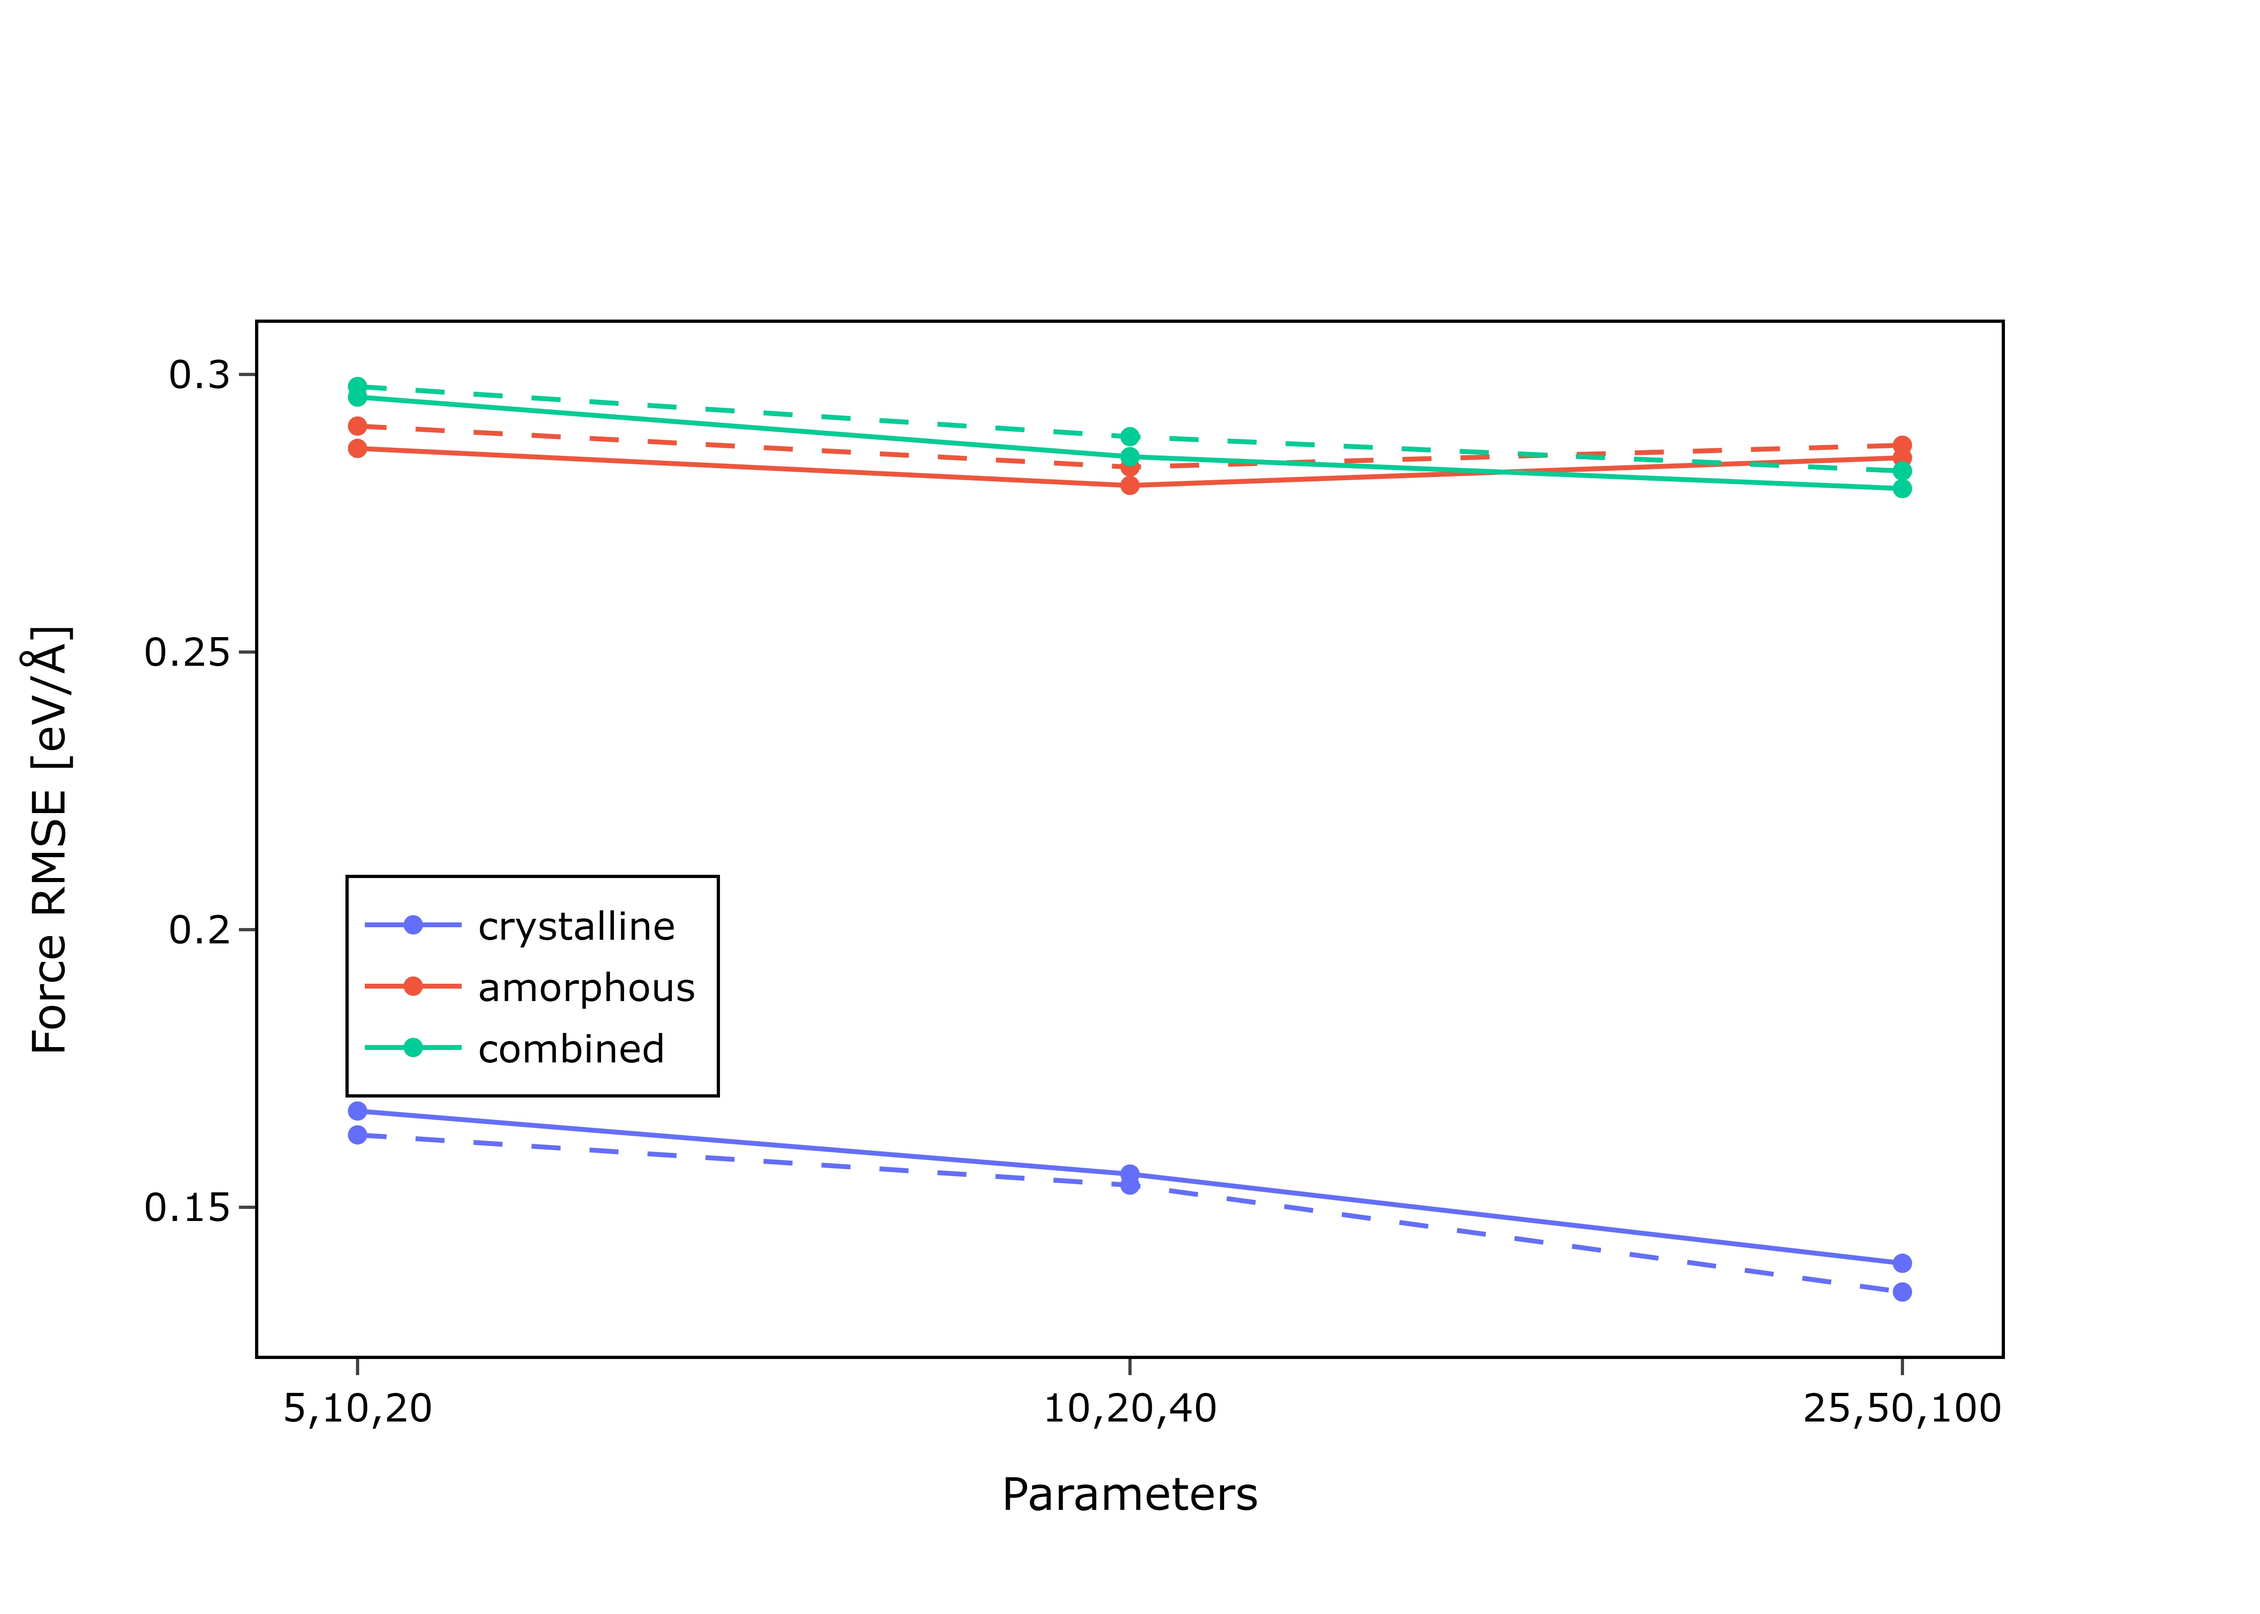
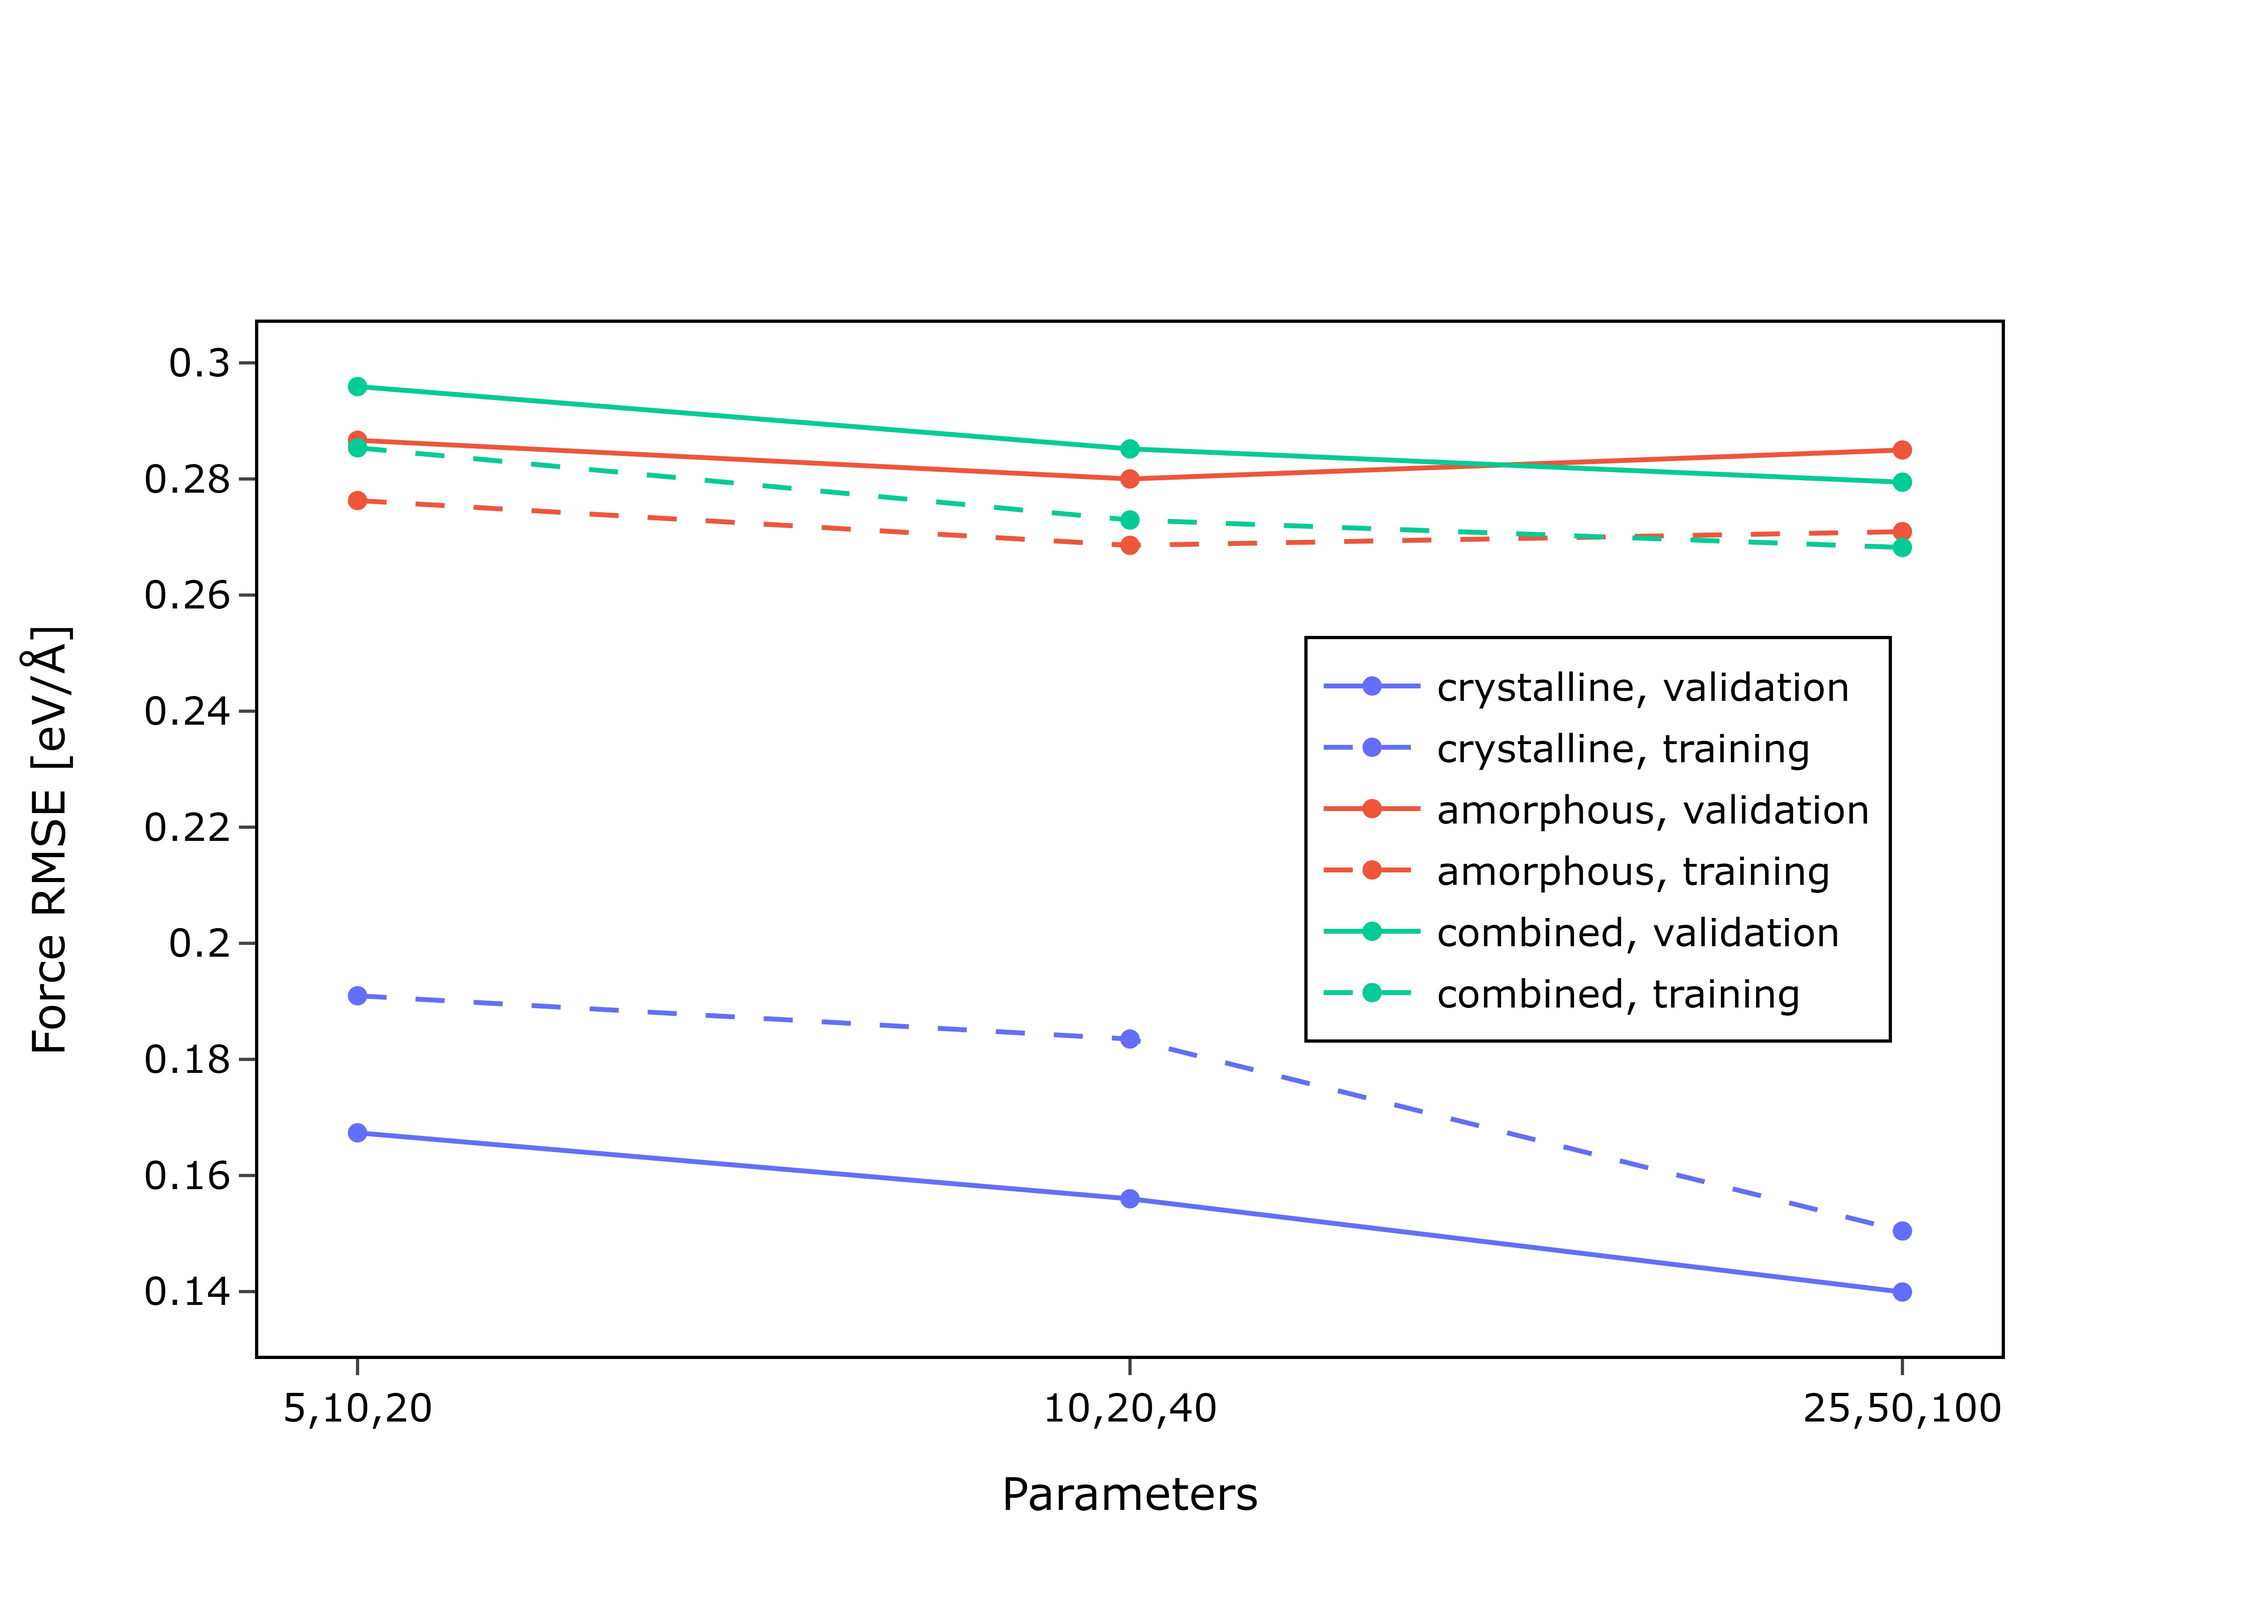
chore: redo plots

diff --git a/ml4md/plot_error_curves.py b/ml4md/plot_error_curves.py
@@ -71,7 +71,7 @@ def main():
                 x=x,
                 y=validation_energy_rmse,
                 line=dict(width=1.5, color=color),
-                name=name
+                name=f"{name}, validation"
             )
         )
 
@@ -80,8 +80,7 @@ def main():
                 x=x,
                 y=training_energy_rmse,
                 line=dict(width=1.5, dash="dash", color=color),
-                name=name,
-                showlegend=False
+                name=f"{name}, training",
             )
         )
 
@@ -90,7 +89,7 @@ def main():
                 x=x,
                 y=validation_force_rmse,
                 line=dict(width=1.5, color=color),
-                name=name
+                name=f"{name}, validation"
             )
         )
 
@@ -99,8 +98,7 @@ def main():
                 x=x,
                 y=training_force_rmse,
                 line=dict(width=1.5, dash="dash", color=color),
-                name=name,
-                showlegend=False
+                name=f"{name}, training"
             )
         )
 
@@ -127,7 +125,7 @@ def main():
             xaxis_title="Parameters",
             legend=dict(
                 x=.05,
-                y=.25,
+                y=.2,
                 traceorder="normal",
                 bordercolor="#000",
                 borderwidth=1
@@ -156,8 +154,8 @@ def main():
             ),
             xaxis_title="Parameters",
             legend=dict(
-                x=.05,
-                y=.25,
+                x=.6,
+                y=.5,
                 traceorder="normal",
                 bordercolor="#000",
                 borderwidth=1
@@ -216,7 +214,7 @@ def main():
                 x=x,
                 y=validation_energy_rmse,
                 line=dict(width=1.5, color=color),
-                name=name
+                name=f"{name}, validation"
             )
         )
 
@@ -225,8 +223,7 @@ def main():
                 x=x,
                 y=training_energy_rmse,
                 line=dict(width=1.5, dash="dash", color=color),
-                name=name,
-                showlegend=False
+                name=f"{name}, training",
             )
         )
 
@@ -235,7 +232,7 @@ def main():
                 x=x,
                 y=validation_force_rmse,
                 line=dict(width=1.5, color=color),
-                name=name
+                name=f"{name}, validation"
             )
         )
 
@@ -244,8 +241,7 @@ def main():
                 x=x,
                 y=training_force_rmse,
                 line=dict(width=1.5, dash="dash", color=color),
-                name=name,
-                showlegend=False
+                name=f"{name}, training"
             )
         )
 
@@ -271,8 +267,8 @@ def main():
             ),
             xaxis_title="Parameters",
             legend=dict(
-                x=.05,
-                y=.95,
+                x=.02,
+                y=.98,
                 traceorder="normal",
                 bordercolor="#000",
                 borderwidth=1
@@ -301,8 +297,8 @@ def main():
             ),
             xaxis_title="Parameters",
             legend=dict(
-                x=.05,
-                y=.25,
+                x=.65,
+                y=.5,
                 traceorder="normal",
                 bordercolor="#000",
                 borderwidth=1
